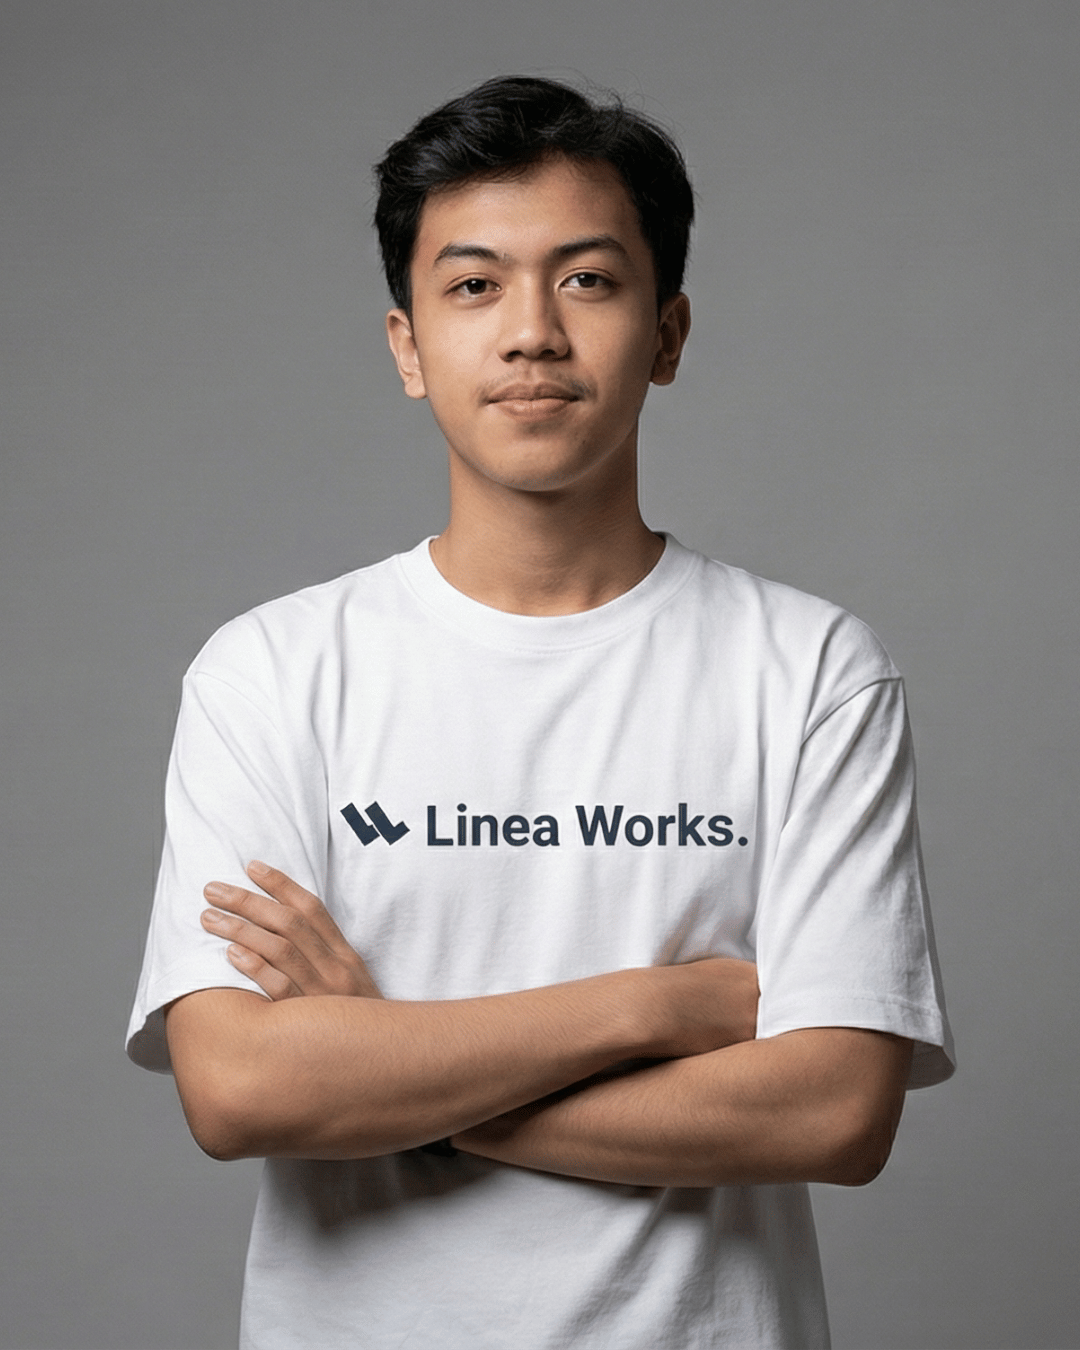
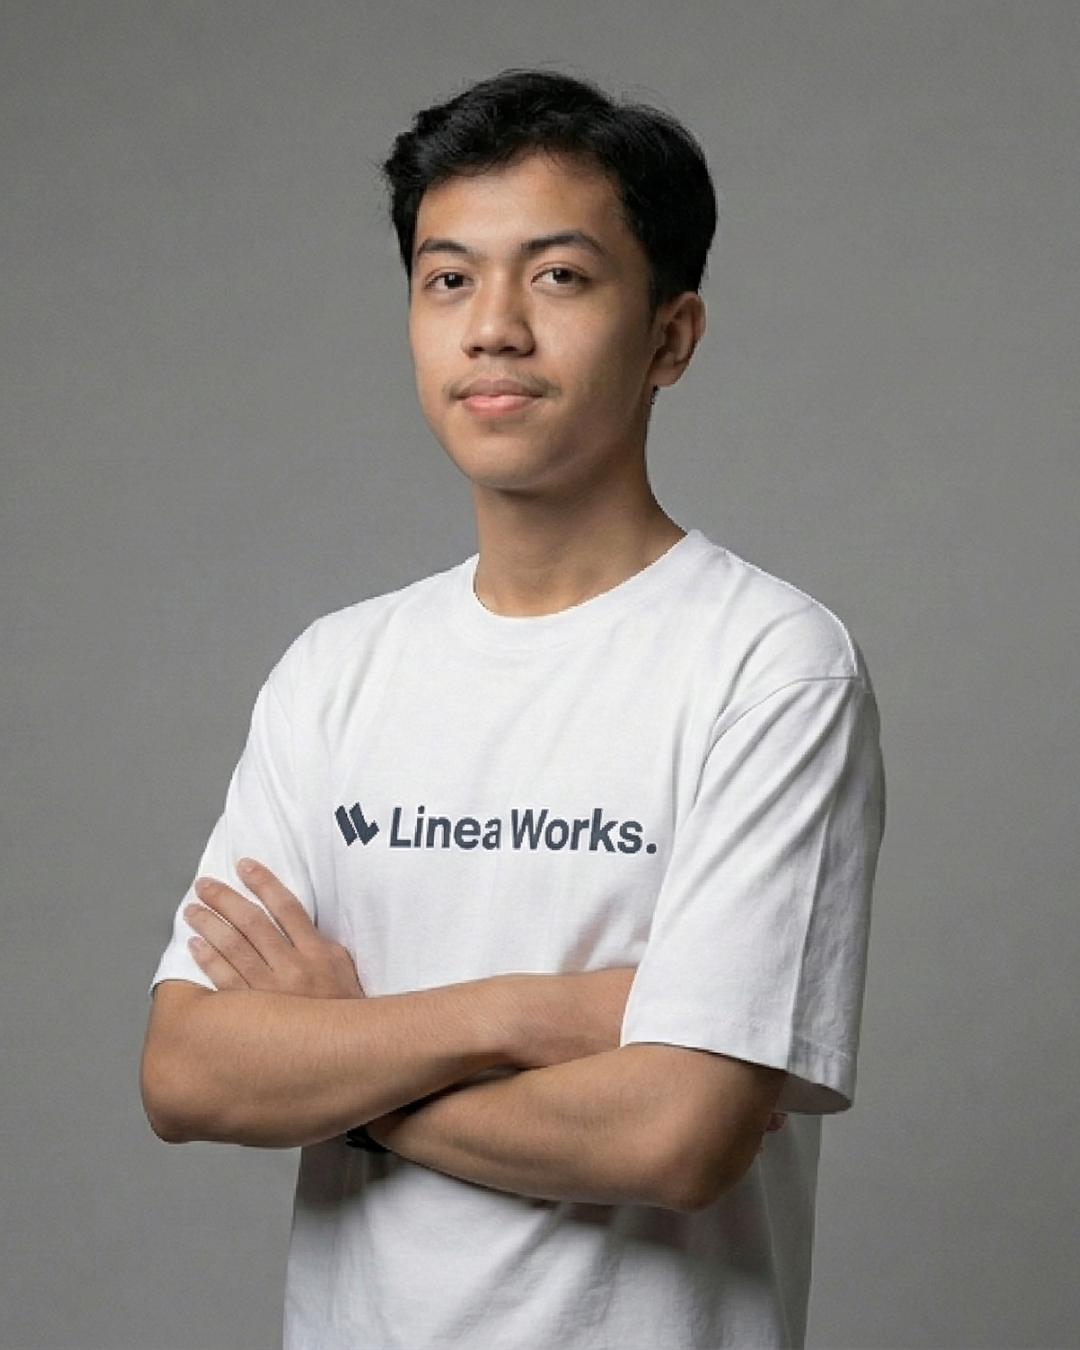
Change some images

diff --git a/src/index.html b/src/index.html
@@ -169,7 +169,7 @@
         <div class="absolute inset-0 z-0">
             <div class="absolute inset-0 bg-linear-to-br from-brand-primary/10 via-transparent to-brand-accent/5 z-10">
             </div>
-            <img src="https://images.unsplash.com/photo-1451187580459-43490279c0fa?q=80&w=2000"
+            <img src="./img/videos/backround.gif"
                 class="w-full h-full object-cover opacity-20 dark:opacity-30 scale-105"
                 :class="active ? 'transition-transform duration-[10s] scale-100' : ''">
             <div class="absolute inset-x-0 bottom-0 h-64 bg-linear-to-t from-(--bg-body) to-transparent z-20"></div>
@@ -357,7 +357,7 @@
                     class="marquee-content flex min-w-full shrink-0 items-center justify-around gap-12 animate-marquee group-hover:[animation-play-state:paused]">
                     <template x-for="i in 2" :key="i + 'dup'">
                         <div class="flex items-center gap-16 md:gap-24">
-                             <div class="logo-item">
+                            <div class="logo-item">
                                 <img src="./img/logos/alibaba.svg" alt="Enterprise Partner"
                                     class="h-6 md:h-8 w-auto object-contain opacity-70">
                             </div>
@@ -369,7 +369,7 @@
                                 <img src="./img/logos/notion.svg" alt="Retail Solutions"
                                     class="h-6 md:h-8 w-auto object-contain opacity-70">
                             </div>
-                             <div class="logo-item">
+                            <div class="logo-item">
                                 <img src="./img/logos/alibaba.svg" alt="Enterprise Partner"
                                     class="h-6 md:h-8 w-auto object-contain opacity-70">
                             </div>
@@ -514,8 +514,8 @@
                         </h2>
                         <p class="text-(--text-muted) mt-8 text-xl leading-relaxed font-medium reveal-text max-w-xl"
                             style="animation-delay: 200ms">
-                            Kami mengintegrasikan infrastruktur kelas dunia untuk mencapai efisiensi hingga <span
-                                class="text-brand-accent font-bold">30%</span> pada operasional Anda.
+                            We integrate world-class infrastructure to achieve efficiency of up to <span
+                                class="text-brand-accent font-bold">30%</span> in your operations.
                         </p>
                     </div>
 
@@ -617,7 +617,7 @@
     <section
         class="bg-(--bg-elevated)/50 relative h-[500px] md:h-[600px] flex items-center justify-center overflow-hidden">
         <div class="absolute inset-0 bg-fixed bg-center bg-no-repeat bg-cover z-0"
-            style="background-image: url('https://images.unsplash.com/photo-1451187580459-43490279c0fa?q=80&w=2000');">
+            style="background-image: url('./img/profiles/together.png');">
         </div>
 
         <div class="absolute inset-0 bg-(--color-brand-primary)/80 dark:bg-black/80 z-10"></div>
@@ -868,7 +868,8 @@
         </div>
     </section>
 
-    <section id="contact" class="py-24 border-y border-(--border-color) relative overflow-hidden bg-[--bg-elevated]/50 transition-colors duration-500">
+    <section id="contact"
+        class="py-24 border-y border-(--border-color) relative overflow-hidden bg-[--bg-elevated]/50 transition-colors duration-500">
         <div class="absolute inset-0 z-0">
             <img src="https://images.unsplash.com/photo-1497366216548-37526070297c?q=80&w=2000"
                 class="w-full h-full object-cover opacity-10 dark:opacity-20 grayscale">
@@ -893,8 +894,7 @@
                             Let’s build <br><span class="text-brand-accent italic">together.</span>
                         </h3>
                         <p class="mb-10 text-white/70 leading-relaxed font-medium">
-                            LineaWorks siap mendukung organisasi Anda dalam mencapai performa maksimal dengan biaya IT
-                            yang terkendali.
+                            LineaWorks helps your organization achieve maximum performance with integrated IT solutions.
                         </p>
 
                         <div class="space-y-8">
